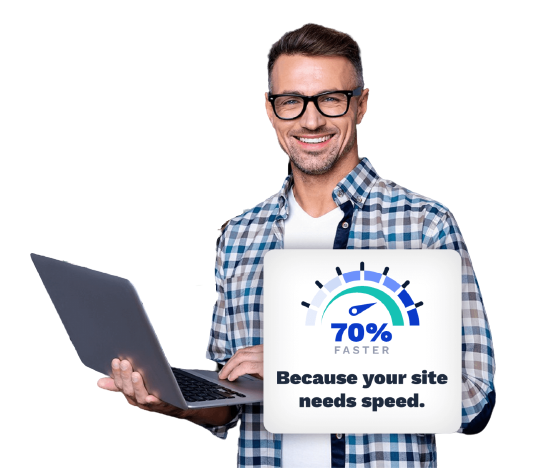
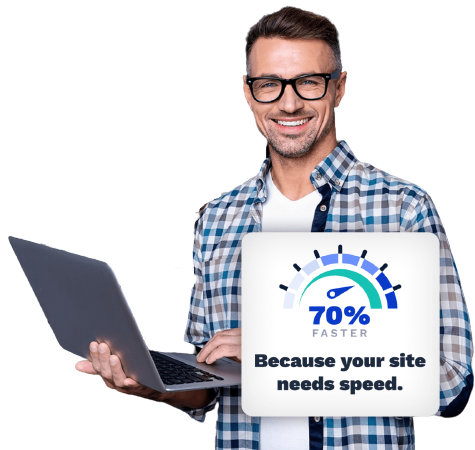
builds complete

Changed region(s): [[0.0, 0.0, 1.0, 1.0]]

diff --git a/Components/Builder/Builder/Builder.js b/Components/Builder/Builder/Builder.js
@@ -6,17 +6,18 @@ const Builder = () => {
         <div>
             <div className="hero">
                 <div className="hero-content flex-col lg:flex-row-reverse">
-                {/* <img src="assets/svg/Business_SVG.svg" alt="" className="object-contain h-72 sm:h-80 lg:h-96 xl:h-112 2xl:h-128" /> */}
-                    <div className='w-2/2 relative my-16'>
+                    <div className='w-2/2 relative my-16 md:ml-6'>
                     <Image src="/builds.png" width={2700} height={2700}></Image>
                    
                     </div>
                    
                     <div>
-                        <h1 className="text-5xl font-bold">Builds</h1>
-                        <p className='mt-3'>Keep track of build activity across your whole team.</p>
+                        <h1 className="text-5xl font-bold dark:text-info">Builds</h1>
+                         <div className='dark:text-gray-400'>
+                         <p className='mt-3'>Keep track of build activity across your whole team.</p>
                         <p className="py-6 text-justify">Deplify can automate builds of your site each time you push a change to your Git repo. Once your team starts deploying, you will see a summary of your team activity, a list of deployed builds and their status here. Use the power of deploy previews, staging sites for each branch, and custom webhook integrations—all included with your account.</p>
-                        <h3 className='font-bold text-lg'>Learn more about builds</h3>
+                        <h3 className='font-bold text-lg dark:text-orange-500'>Learn more about builds</h3>
+                         </div>
                         <button className="builds-button px-4 py-2 rounded-lg font-semibold my-5 dark:bg-info dark:text-black">New site from Git</button>
                     </div>
                 </div>

diff --git a/Components/Team/Team.js b/Components/Team/Team.js
@@ -8,9 +8,9 @@ const Team = () => {
 
  
     return (
-        <div className='my-20 overflow-hidden'>
+        <div className='my-20'>
 
-            <div className='border shadow-lg w-full md:w-1/2 px-4 py-7 mb-14  border-gray-300'>
+            <div className='border shadow-lg w-full md:w-1/2 md:px-4 py-7 mb-14  border-gray-300'>
                 <h1 className=' text-lg md:text-3xl mb-3'>Settings for <span>Register team name</span></h1>
                 <h2 className=' text-sm md:text-xl mb-3'>1 team member</h2>
                 <h1 className=' text-sm md:text-xl mb-3'>Team created on Jul 25, 2022 (6 months ago).</h1>
@@ -27,8 +27,8 @@ const Team = () => {
             <div className='my-10 md:flex flex-col md:flex-row'>
 
 
-                <div className=' w-full shadow-lg md:w-1/4 h-48 border border-gray-300 flex justify-center md:justify-start'>
-                    <ul className='ml-6'>
+                <div className=' w-full shadow-lg md:w-1/4 h-48 border border-gray-300 flex md:justify-center md:justify-start'>
+                    <ul className='md:ml-6'>
                         <li className='text-gray-500 mb-3 text-lg'>Genaral</li>
                         <div className='ml-2'>
                             <li className='text-gray-500 mb-3'>Team Datails</li>
@@ -41,7 +41,7 @@ const Team = () => {
 
 
 
-                <div className=' w-full md:w-2/3 border ml-6 mt-7 md:mt-0 px-6 py-10 shadow-lg'>
+                <div className=' w-full md:w-2/3 border md:ml-6 mt-7 md:mt-0 px-6 py-10 shadow-lg'>
                     <div className='mb-10 py-10'>
                         <h1 className='text-3xl '>Team Details</h1>
                         <h1 >Your team’s profile and single sign-on information</h1>

diff --git a/Components/Home/Banner/Banner.js b/Components/Home/Banner/Banner.js
@@ -18,10 +18,10 @@ const Banner = () => {
 
     
     return (
-        <div className="hero ">
+        <div className="hero pb-5">
             <div className="hero-content flex-col md:flex-row-reverse">
               <div className="">
-              <Image src="/remove.png" width={700} height={700}></Image>
+              <Image src="/remove.png" width={750} height={750}></Image>
               </div>
                 <div className="">
                     <div className="text-4xl md:text-5xl lg:text-5xl font-bold text-pink-800 dark:text-info">
